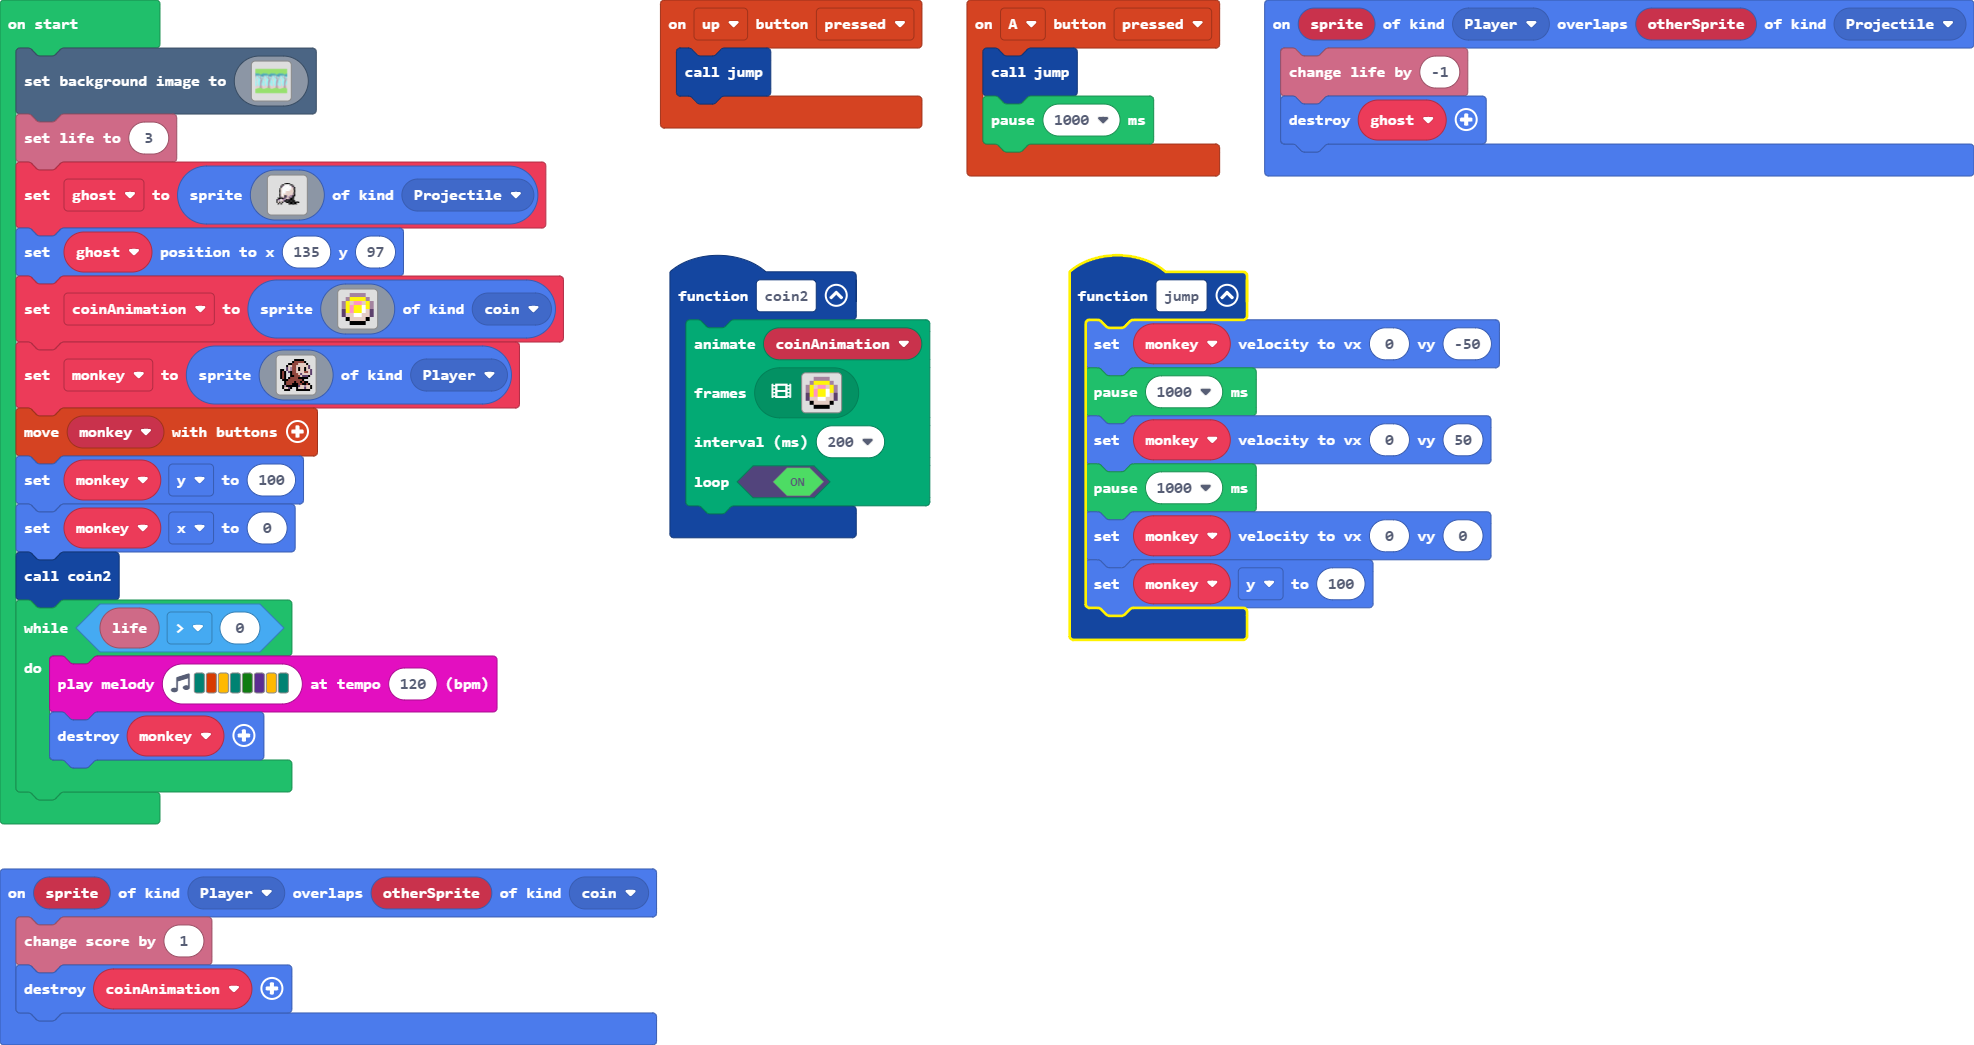
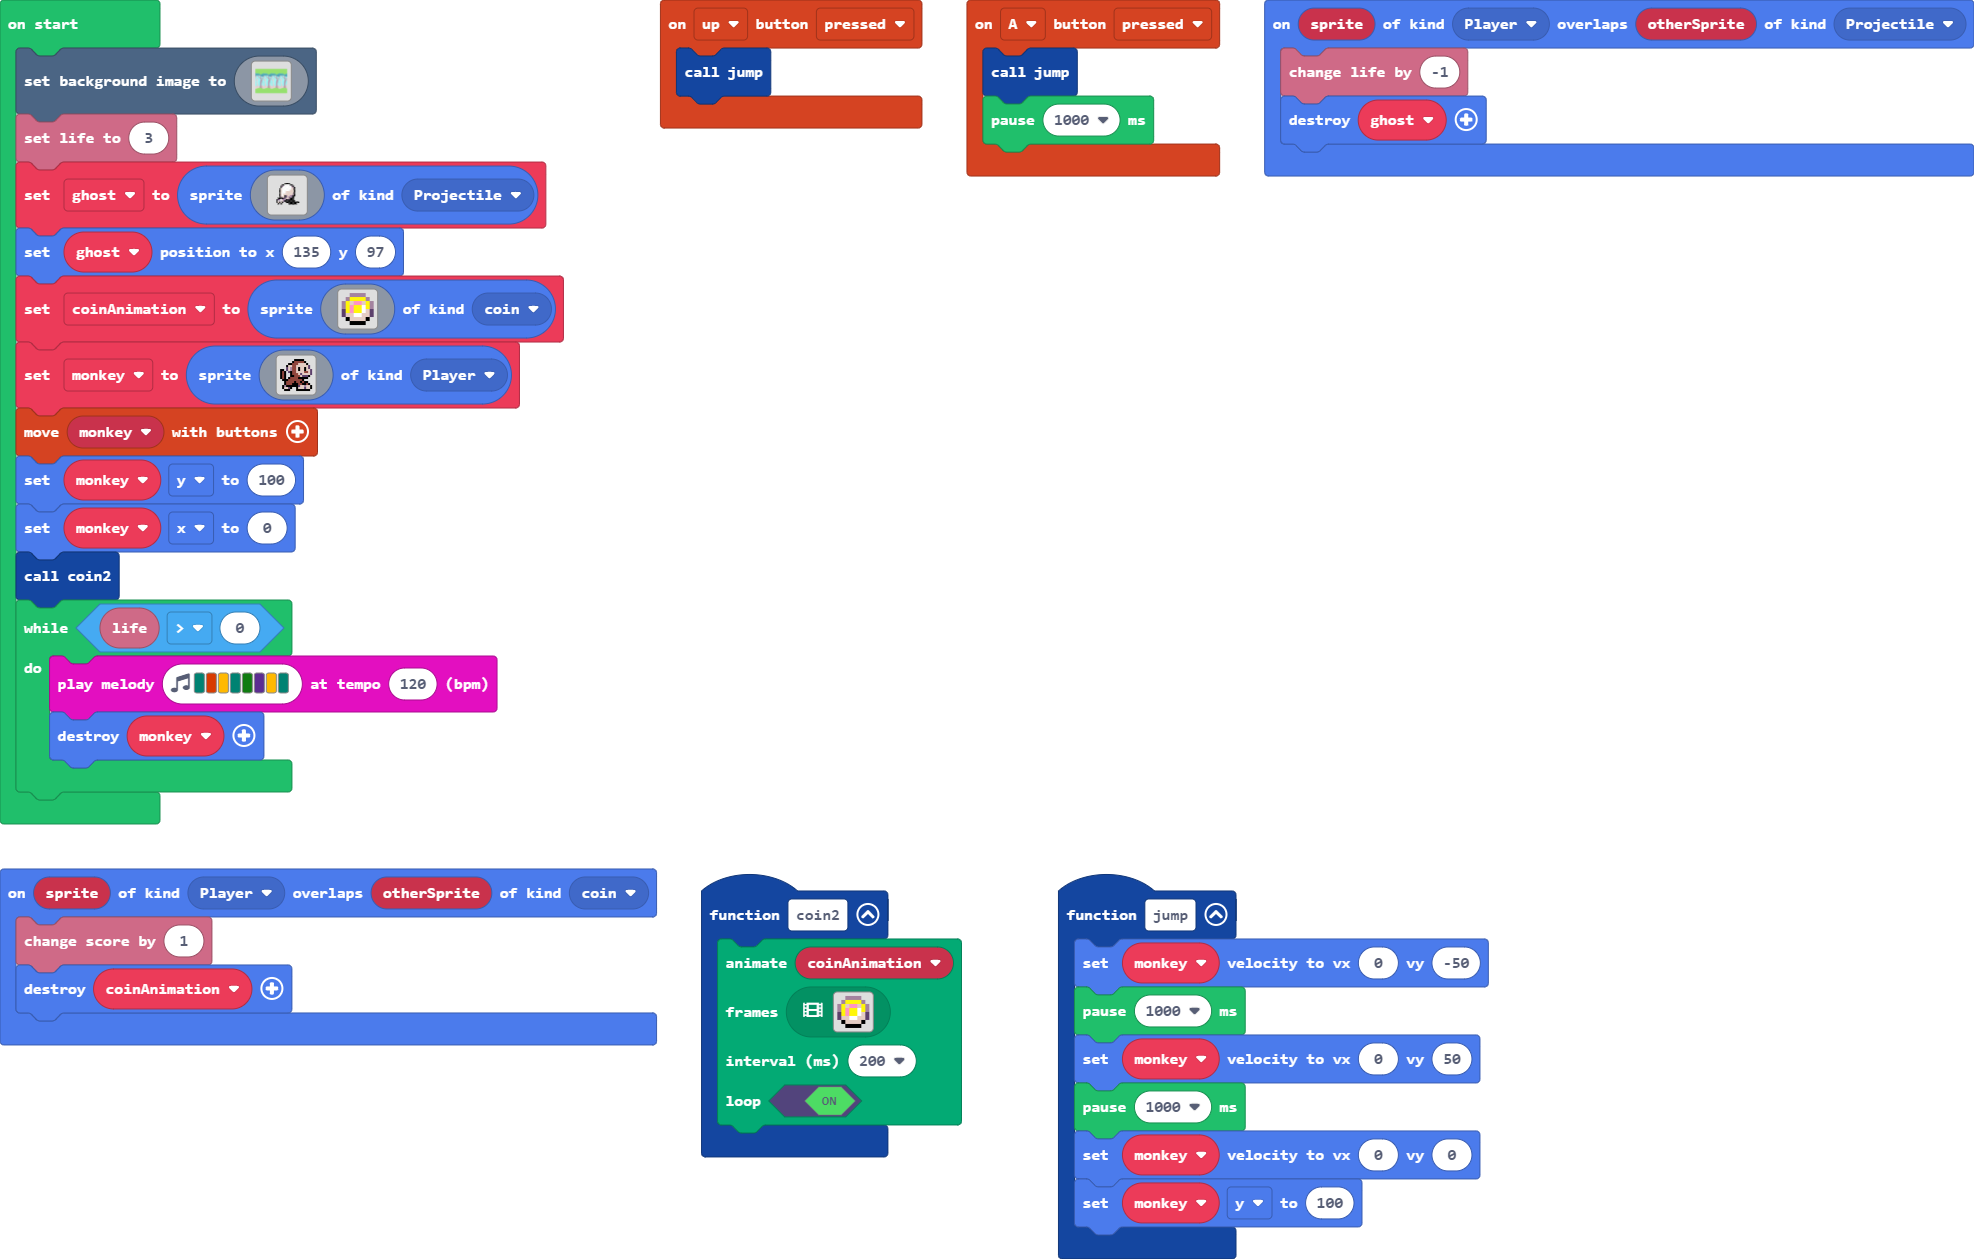
Update main.blocks, main.ts

diff --git a/main.ts b/main.ts
@@ -73,12 +73,10 @@ function coin2 () {
 sprites.onOverlap(SpriteKind.Player, SpriteKind.Projectile, function (sprite, otherSprite) {
     info.changeLifeBy(-1)
     ghost.destroy()
-    music.pewPew.play()
 })
 sprites.onOverlap(SpriteKind.Player, SpriteKind.coin, function (sprite, otherSprite) {
     info.changeScoreBy(1)
     coinAnimation.destroy()
-    music.powerUp.play()
 })
 function jump () {
     monkey.setVelocity(0, -50)
@@ -273,7 +271,7 @@ controller.moveSprite(monkey)
 monkey.y = 100
 monkey.x = 0
 coin2()
-while (info.life() < 0) {
-    music.powerDown.play()
+while (info.life() > 0) {
+    music.playMelody("F B A F G D A F ", 120)
     monkey.destroy()
 }
